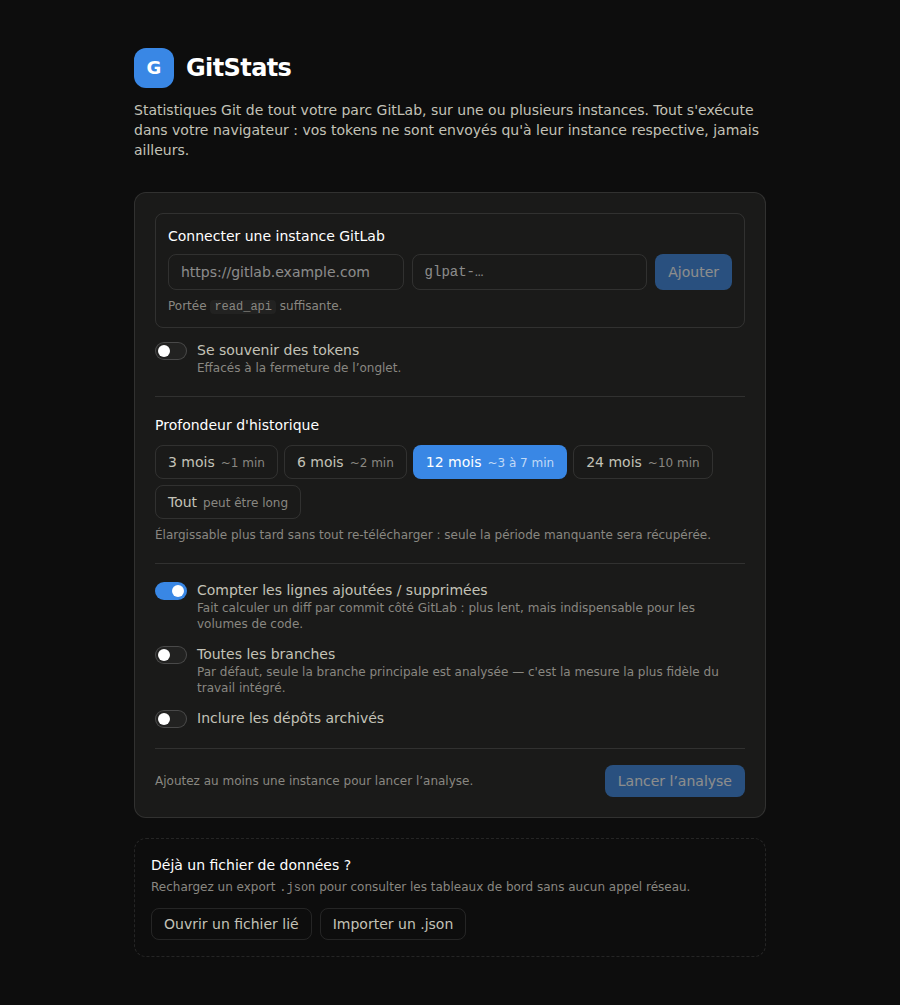
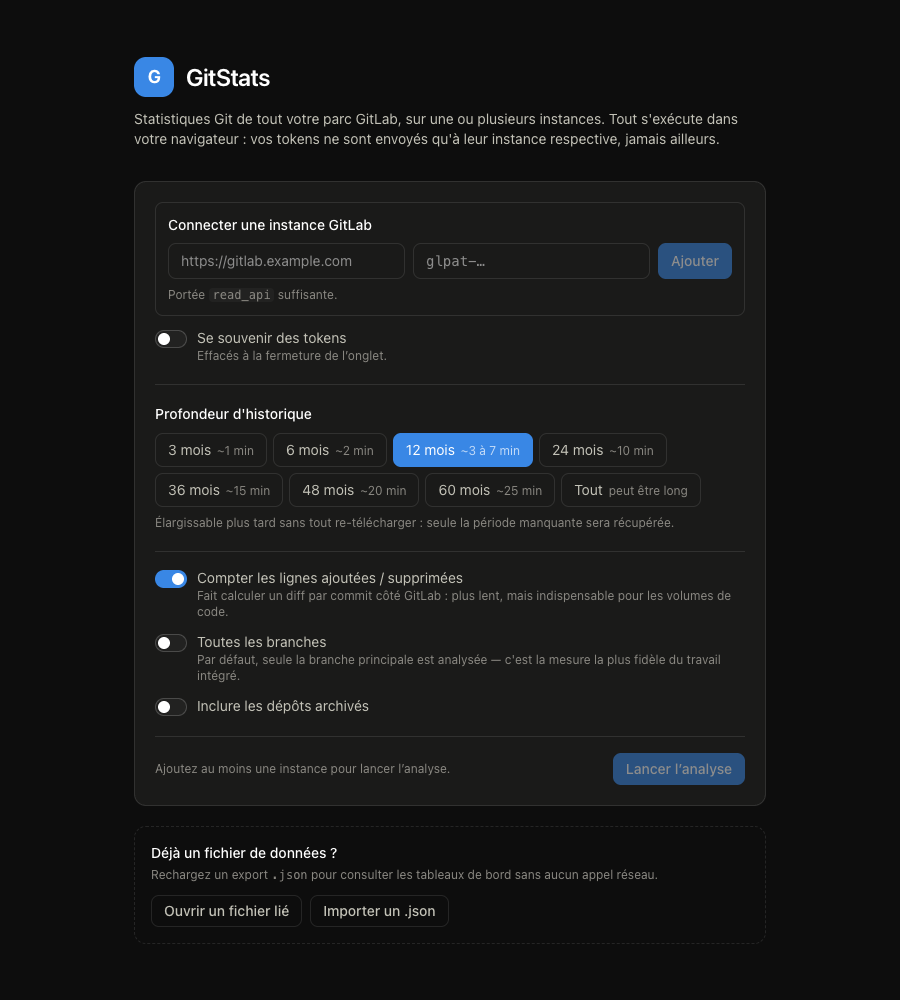
feat(settings, onboarding): extend period options to include 48 and 60 months

diff --git a/src/routes/Onboarding.tsx b/src/routes/Onboarding.tsx
@@ -10,6 +10,9 @@ const WINDOWS: Array<{ months: number | null; label: string; hint: string }> = [
   { months: 6, label: '6 mois', hint: '~2 min' },
   { months: 12, label: '12 mois', hint: '~3 à 7 min' },
   { months: 24, label: '24 mois', hint: '~10 min' },
+  { months: 36, label: '36 mois', hint: '~15 min' },
+  { months: 48, label: '48 mois', hint: '~20 min' },
+  { months: 60, label: '60 mois', hint: '~25 min' },
   { months: null, label: 'Tout', hint: 'peut être long' },
 ];
 

diff --git a/src/routes/Settings.tsx b/src/routes/Settings.tsx
@@ -110,7 +110,7 @@ export function Settings() {
               }}
               className="h-8 rounded-lg border border-[var(--border)] bg-[var(--surface-2)] px-2 text-sm"
             >
-              {[3, 6, 12, 24, 36].map((months) => (
+              {[3, 6, 12, 24, 36, 48, 60].map((months) => (
                 <option key={months} value={months}>
                   {months} mois
                 </option>
